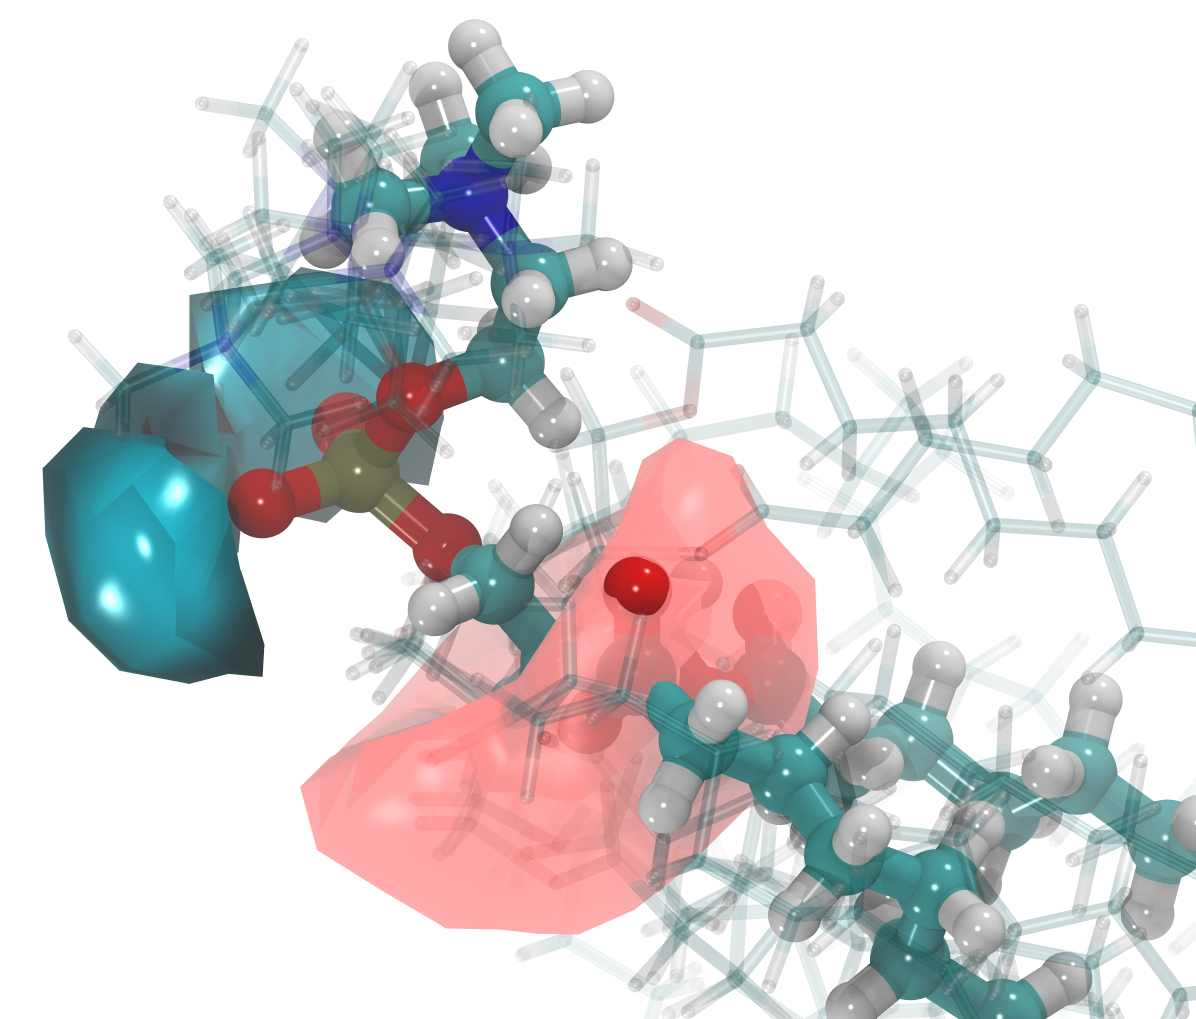
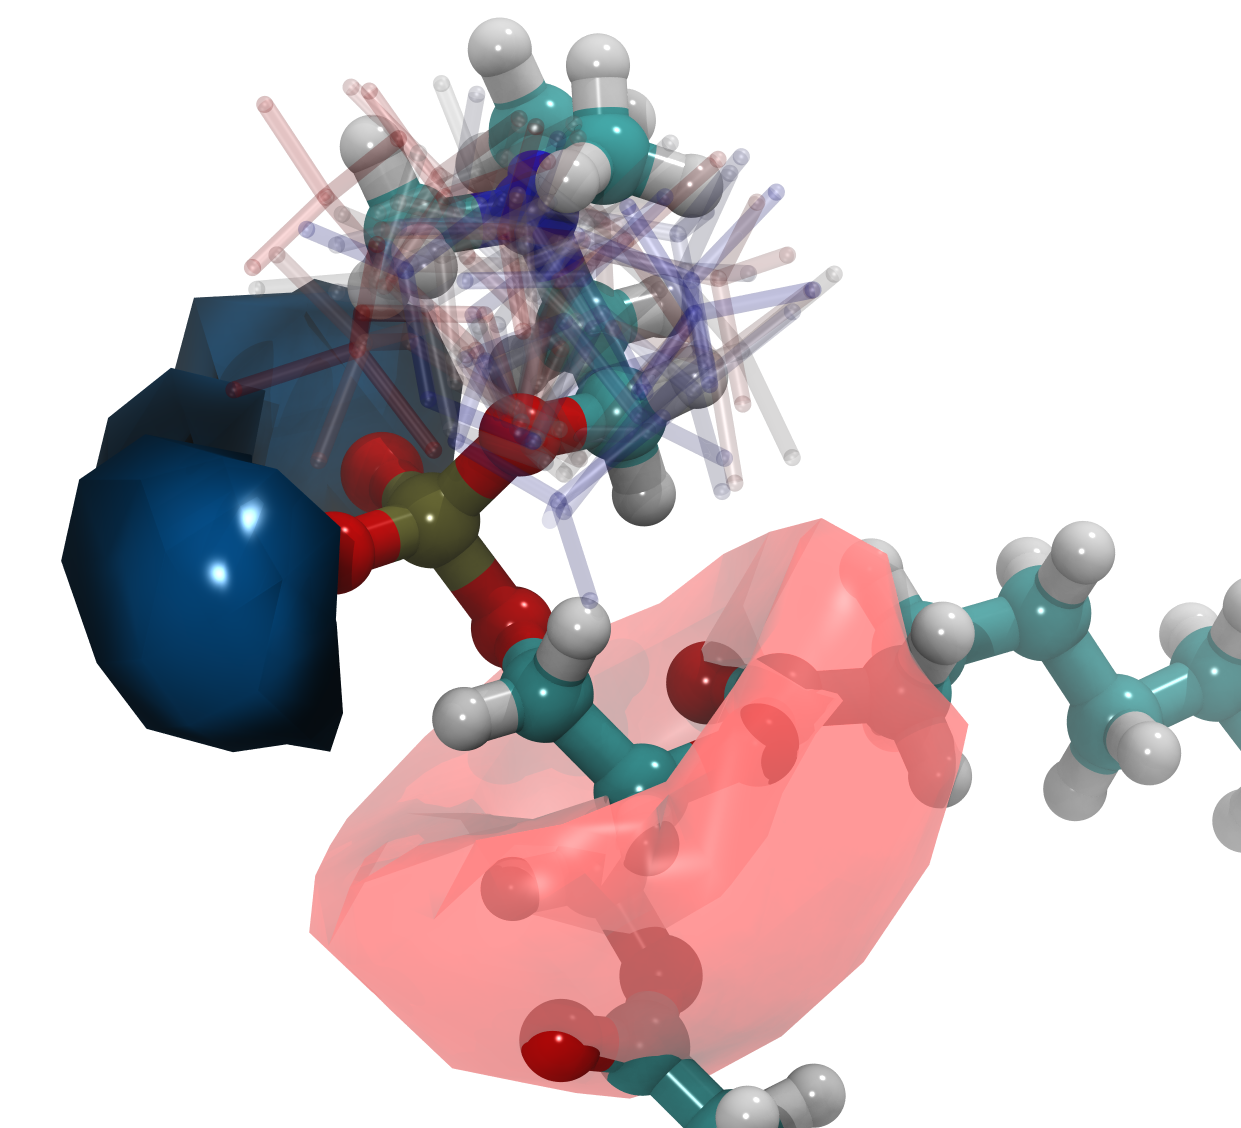
Improved isocontour figure and its caption.

diff --git a/Manuscript/manuscript.tex b/Manuscript/manuscript.tex
@@ -537,17 +537,18 @@ We analyzed the ratio of the number of calcium cations bound to either phosphate
 
 \begin{figure}[tb!]
   \centering
-  \includegraphics[width=8.0cm]{../Fig/isocontours_r37_ca_O-carb.png} %\\
+  \includegraphics[width=9.0cm]{../Fig/isocontours_r37_ca_O-carb.png} %\\
 %  \includegraphics[width=8.0cm]{../Fig/volmap_resid10_Ca_Cl_PO4Cent.png} %\\
 %  \includegraphics[width=4.0cm]{../Fig/volmap_resid10_Ca_Cl_sn1Cent.png}
 %  \includegraphics[width=3.6cm]{../Fig/volmap_resid10_Ca_Cl_sn2Cent.png}
   \caption{\label{fig:volmaps}
-      Isocontours of spatial number density of \ce{Ca^{2+}} (cyan, 0.0015~\AA$^{-3}$) 
-      and POPC carbonyl oxygen atoms (red, 0.0075~\AA$^{-3}$, all POPC lipids contribute). 
+      Isocontours of spatial number density of \ce{Ca^{2+}} (dark blue, 0.0016~\AA$^{-3}$) 
+      and POPC carbonyl oxygen atoms (light semi-transparent red, 0.007~\AA$^{-3}$, all POPC lipids contribute). 
       Calcium cations localize mostly around phosphate oxygens (red and bronze).
       Interactions with carbonyl oxygens is less likely than with phosphate oxygens, 
       and it is contributed more by other neighbouring phospholipids than by the same lipid. 
-      Transparent structures are shown to depict the variability of POPC configurations. 
+      Transparent structures are shown to depict the variability of choline configurations 
+      (colour warps from red to blue along the simulation time). 
       The number density was evaluated for each lipid, 
       after its strucutral alignment using only phosphate group. 
       MDAnalysis \cite{mdanalysis2011} library was used for 
